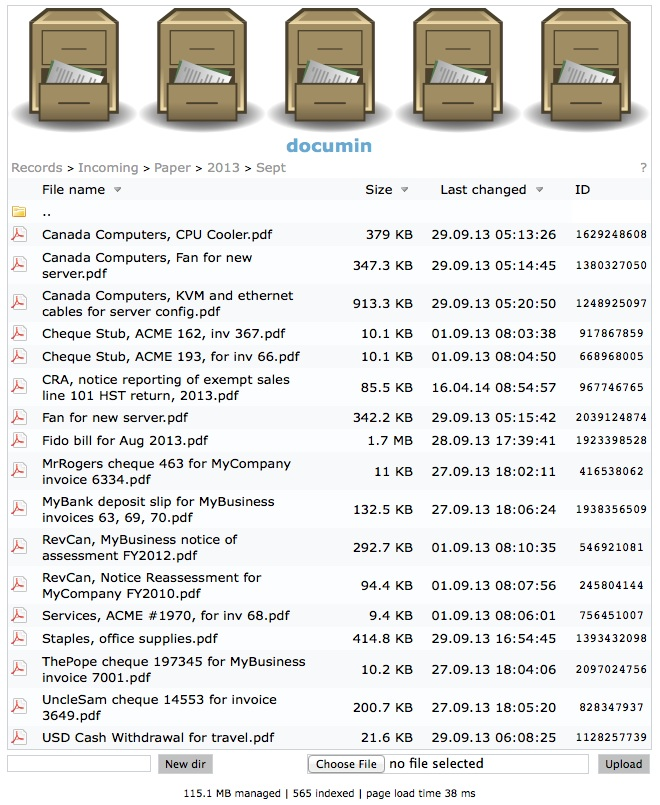
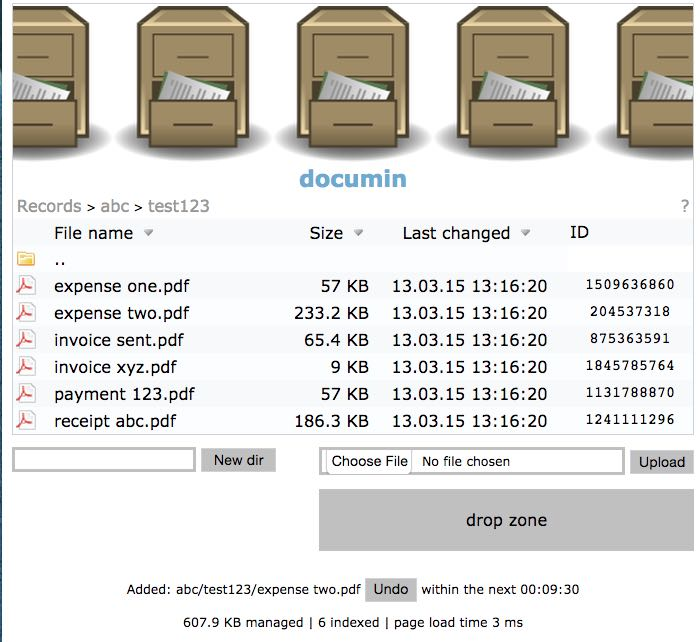
Add dropzone support.

diff --git a/documin.php b/documin.php
@@ -57,11 +57,15 @@ $_CONFIG['show_info'] = true;
 // The time format for the "last changed" column.
 $_CONFIG['time_format'] = "d.m.y H:i:s";
 
+// The timezone of the server. Any value that is suitable
+// for use with data_default_timezone_set(value).
+$_CONFIG['timezone'] = "America/New_York";
+
 // Charset. Use the one that is suitable for you. 
 $_CONFIG['charset'] = "UTF-8";
 
 // Regular expression to match files that should be hidden.
-$_CONFIG['hidden_file_regex'] = "/^\\.|~$|index.php|documin.php|documin.sqlite/";
+$_CONFIG['hidden_file_regex'] = "/^\\.|~$|dropzone.js|index.php|documin.php|documin.sqlite/";
 
 // Regular expression to match directories that should be hidden.
 $_CONFIG['hidden_dir_regex'] = "";
@@ -273,12 +277,12 @@ table img{
 
 #info {
 	color:#000000;
-	font-family:Verdana;
 	max-width:680px;
 	position: relative;
         margin: auto;
 	margin-top: 10px;
 	text-align:center;
+	font-family:Verdana;
 	font-size:x-small;
 }
 
@@ -286,7 +290,8 @@ table img{
 
 #upload {
 	margin: 0 auto;
-	margin-top:2px;
+	margin-top:10px;
+	margin-bottom:10px;
 	max-width:680px;
 }
 
@@ -294,12 +299,44 @@ table img{
 	float:left;
 }
 
-#upload #upload_container{
+#upload #upload_container {
 	float:right;
 }
 
 #upload input.upload_dirname {
 	width:140px;
+        border: 3px solid;
+        border-color: buttonface;
+}
+
+#upload input.dirname_submit {
+	width:60px;
+}
+
+#upload input.upload_file {
+	width:240px;
+        border: 3px solid;
+        border-color: buttonface;
+	font-family:Verdana;
+	font-size:x-small;
+}
+
+
+#upload input.upload_submit {
+	width:60px;
+}
+
+#droparea {
+       margin: 10;
+       width: 300px;
+       height: 50px;
+       line-height: 50px;
+       margin-top: 10px;
+       margin-bottom: 10px;
+       background-color: buttonface;
+       float: right;
+       text-align: center;
+       vertical-align: middle;
 }
 
 #undo {
@@ -1423,6 +1460,8 @@ class Documin
   // 
   private function init()
   {
+    date_default_timezone_set(Documin::getConfig("timezone"));
+
     $this->database  = new Database();
     $this->scriptUrl = getScriptUrlWithoutQuery();
     
@@ -1813,11 +1852,11 @@ class Documin
 </div>
 
 <!-- START: Upload area -->
-<form enctype="multipart/form-data" method="post">
-	<div id="upload">
+<div id="upload">
+    <form enctype="multipart/form-data" method="post">
 		<div id="newdir_container">
 			<input name="userdir" type="text" class="upload_dirname" />
-			<input type="submit" value="<?php
+			<input type="submit" class="dirname_submit" value="<?php
                             print $this->getString("make_directory");?>" />
 		</div>
 		<div id="upload_container">
@@ -1825,9 +1864,29 @@ class Documin
 			<input type="submit" value="<?php
                             print $this->getString("upload");?>" class="upload_sumbit" />
 		</div>
-	</div>
-        <div class="bar"></div>
-</form>
+    </form>
+    <div class="bar"></div>
+    <div id="droparea">drop zone</div>
+</div>
+<div class="bar"></div>
+
+<script src="dropzone.js"></script>
+<script>
+    try {
+      var myDropzone = new Dropzone("div#droparea",
+          { url: document.URL,
+             paramName: "userfile",
+             previewTemplate : '<div style="display:none"></div>'
+          });
+      myDropzone.on("queuecomplete", function(file) { location.reload(); });
+      window.console.log("dropzone enabled");
+    }
+    catch(err) {
+      window.console.log("dropzone disabled");
+      document.getElementById("droparea").style.display = "none";
+    }
+</script>
+
     <?php $historyId = $this->database->getLastUploadForUndoIfExists();
     if ( $historyId != null ) { ?>
 <div id="undo">

diff --git a/README.md b/README.md
@@ -40,6 +40,10 @@ Configure your web server to expose a file system directory that you want to man
       * An exception is undo of operations completed in the prior five minutes.
 * No support for file thumbnails, fancy image browsing, icon support of a wide variety of file types (a limited set is okay), any sort of server side image preview generation.
 
+## File Drag and Drop
+
+ *documin* support drag and drop file submission using [Dropzonejs] (http://www.dropzonejs.com). The *documin* web page will attempt to load [dropzone.js[ (https://raw.github.com/enyo/dropzone/master/dist/dropzone.js) from the directory where documin.php resides. If it succeeds then a drop area is enabled on the web page. If dropzone.js is missing, or if for any reason initialization of dropzone fails, then *documin* functions normally but without the drop area.
+
 ## Referencing Files By ID
 
 Use a web browser to visit the directory where documin.php was placed on your server. Browse the directory tree to locate the file to which you want to link. Note the ID field, each ID is a path independent link to the file, e.g.:
